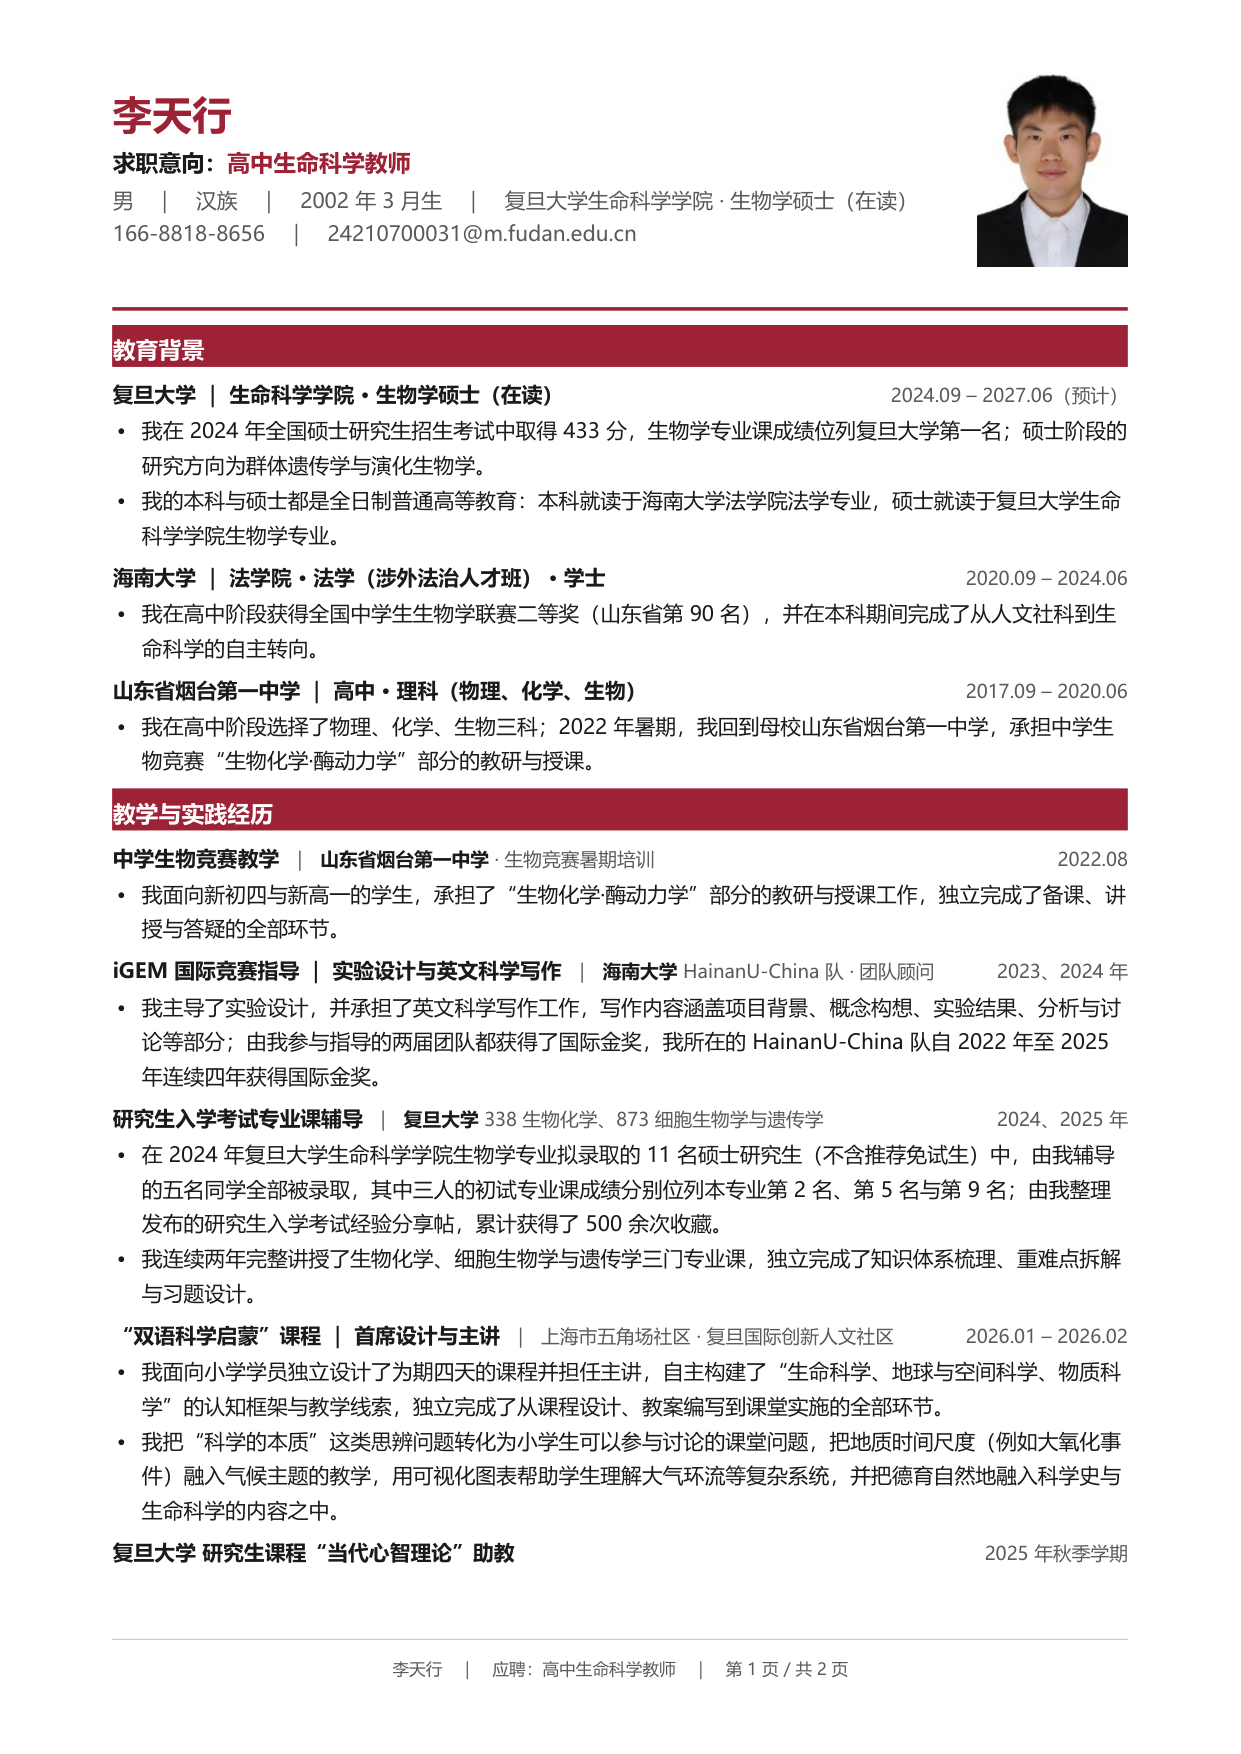
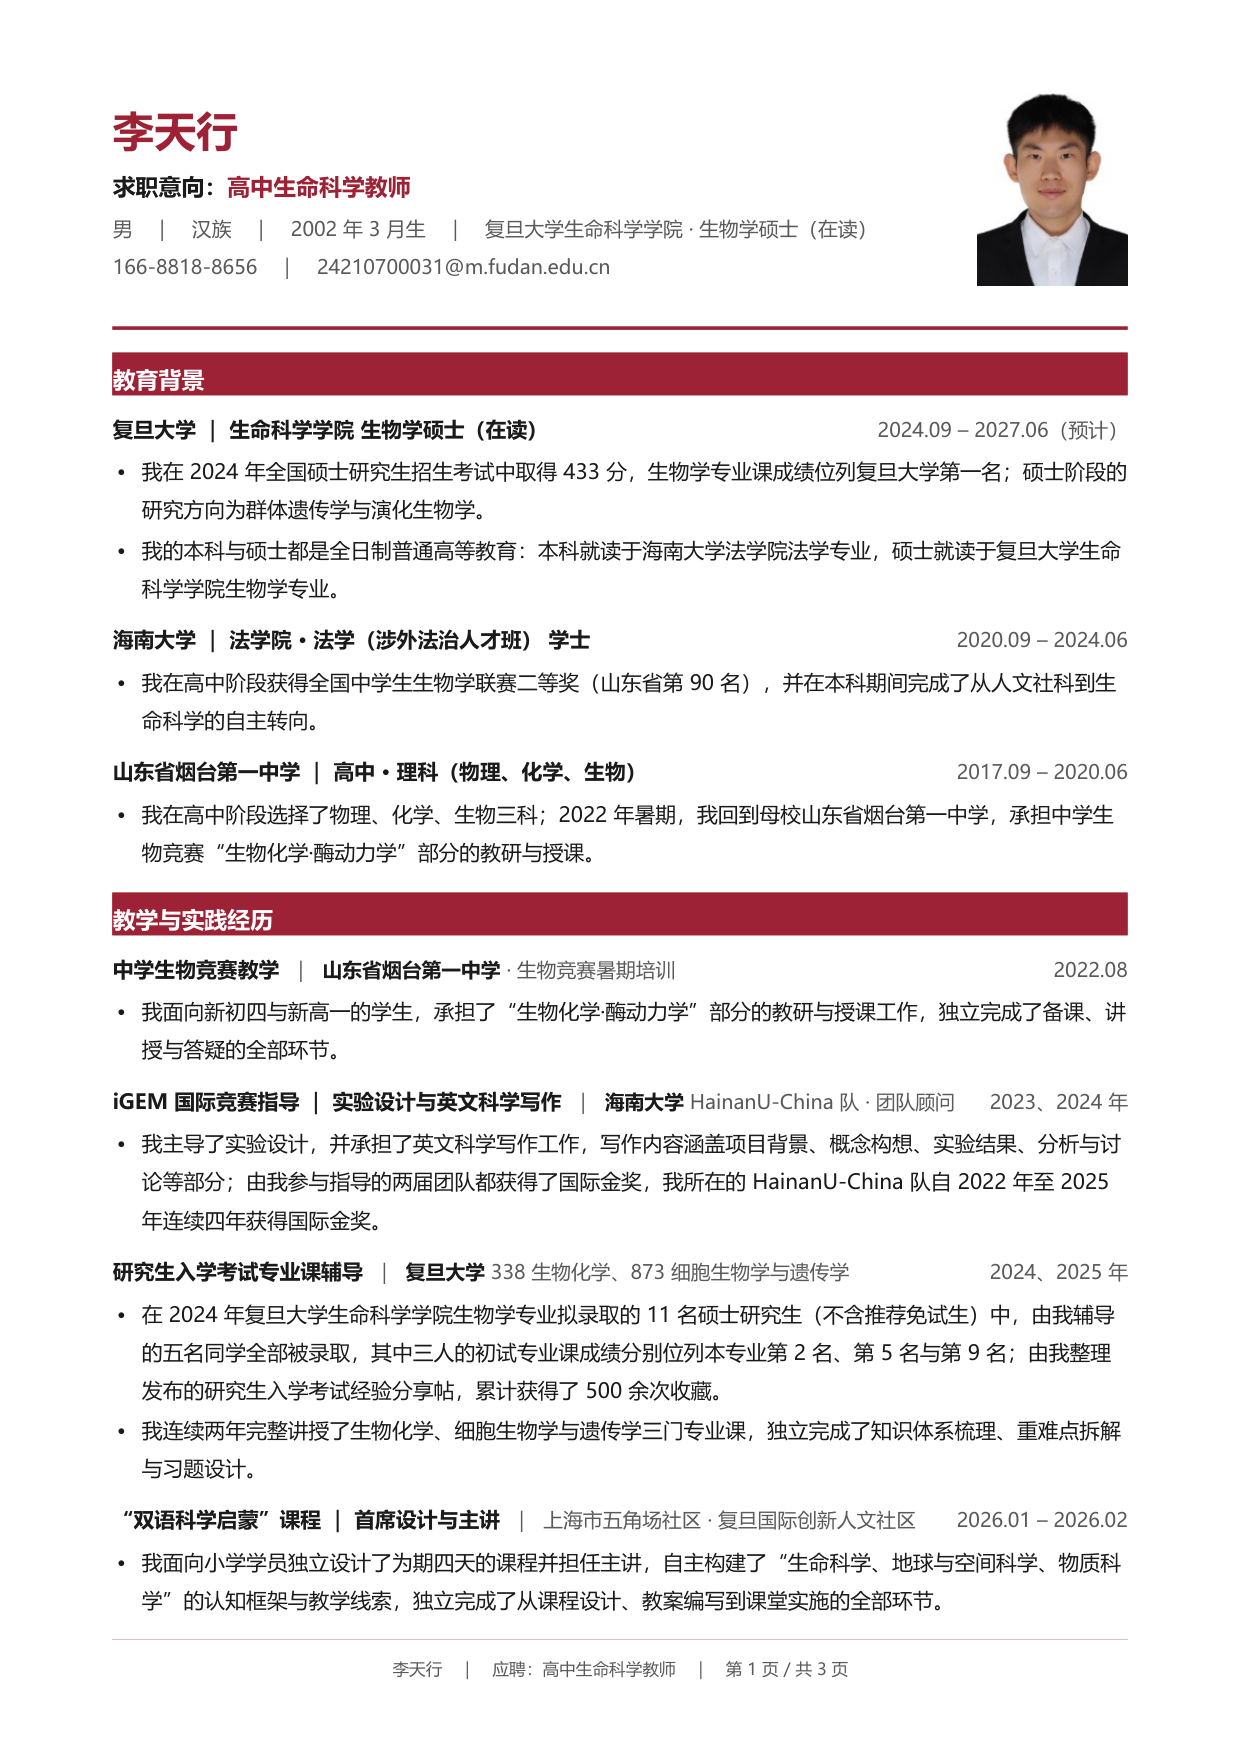
fix: 排版逐项移植定稿脚本参数，红条铺满整栏且条高固定
原做法是从 PDF 反推数值，方向错了。改为读产出定稿的生成脚本 build_resumes.js，
把参数整段移植进 template.yaml：正文 10 pt、分区标题 11 pt、姓名 20 pt、
辅助 9.5 pt，页边距 820/1080 twips，条目间距 130/40、要点 20/20、分区 220/96。

两处必须偏离脚本原值，原因写在模板注释里：
- 分区条左右缩进 40 改为 0。定稿 PDF 由 Word 导出，Word 按整栏铺底色、
  不理左右缩进；LibreOffice 严格按缩进收窄，会得到窄 3 pt 的条。
- 条高改用最小行高 20.5 pt。LibreOffice 对单行段落按字号给最小行高，
  行距倍数调大也不变，无法靠 line 字段撑高。

其他：渲染器改为全部间距从模板读取（此前部分写死在代码里，与模板无代码的
约定不符）；lineMode 支持 auto 与 exact 两种行距解释；教育背景的学位连接符
按定稿改为空格。

四个变体实测 3、3、3、2 页，页数预算随之调整；红条 487.3x20.5 pt，
基准为 486.2x20.4 pt。

Changed region(s): [[0.0919, 0.0308, 0.9186, 0.9236]]

diff --git a/src/render-docx.js b/src/render-docx.js
@@ -31,6 +31,24 @@ function exactLine(pt) {
   return { line: Math.round(pt * 20), lineRule: LineRuleType.EXACT };
 }
 
+/**
+ * 按模板的 lineMode 组装段落间距。
+ * auto 模式直接用 OOXML 的行距倍数（240 等于单倍），与定稿脚本一致；
+ * exact 模式改用固定行高，页数不随字体度量漂移。
+ */
+function makeSpacing(template, before, after, lineMult, exactPt) {
+  const out = {};
+  if (before !== undefined) out.before = before;
+  if (after !== undefined) out.after = after;
+  if (template.lineMode === 'exact') {
+    Object.assign(out, exactLine(exactPt));
+  } else if (lineMult !== undefined) {
+    out.line = lineMult;
+    out.lineRule = 'auto';
+  }
+  return out;
+}
+
 function makeRuns(template) {
   const FONT = {
     ascii: template.font.family,
@@ -41,6 +59,7 @@ function makeRuns(template) {
   const C = template.colors;
   const T = template.typography;
   const LH = template.lineHeightPt || {};
+  const SP = template.spacing || {};
   const records = [];
 
   const run = (text, o = {}) => {
@@ -55,14 +74,19 @@ function makeRuns(template) {
   };
 
   const sectionBar = (title) => {
+    const cfg = SP.section || {};
     records.push(String(title));
+    // 条高用「最小行高」给绝对值，色块高度才可预期
+    const barHeight = cfg.heightPt || 20.5;
     return new Paragraph({
       // keepNext：标题条必须紧跟其下第一条内容，避免标题孤零零留在页底
       keepNext: true,
       shading: { type: ShadingType.CLEAR, fill: C.primary },
-      // 左右不留缩进，底色才能铺满整栏。缩进会让底色跟着收窄，字就露在红条外面
-      indent: { left: 0, right: 0 },
-      spacing: Object.assign({ before: 128, after: 54 }, exactLine(LH.section || 20)),
+      indent: { left: cfg.indentLeft === undefined ? 0 : cfg.indentLeft, right: cfg.indentRight === undefined ? 0 : cfg.indentRight },
+      spacing: Object.assign(
+        { before: cfg.before === undefined ? 220 : cfg.before, after: cfg.after === undefined ? 96 : cfg.after },
+        { line: Math.round(barHeight * 20), lineRule: LineRuleType.AT_LEAST }
+      ),
       children: [new TextRun({ text: title, font: FONT, size: halfPt(T.sectionTitle), bold: true, color: 'FFFFFF' })],
     });
   };
@@ -87,9 +111,10 @@ function makeRuns(template) {
     return out;
   };
 
-  const entryLine = (title, right, org) =>
-    new Paragraph({
-      spacing: Object.assign({ before: 74, after: 20 }, exactLine(LH.body || 17.5)),
+  const entryLine = (title, right, org) => {
+    const cfg = SP.entry || {};
+    return new Paragraph({
+      spacing: makeSpacing(template, cfg.before, cfg.after, cfg.line, LH.body || 16.5),
       tabStops: [{ type: TabStopType.RIGHT, position: template.geometry.tabStopTwip }],
       children: [
         ...segmentRuns(title, { bold: true }),
@@ -97,19 +122,24 @@ function makeRuns(template) {
         ...(right ? [run('\t' + right, { color: C.muted, size: T.small })] : []),
       ],
     });
+  };
 
-  const bullet = (children) =>
-    new Paragraph({
+  const bullet = (children) => {
+    const cfg = SP.bullet || {};
+    return new Paragraph({
       numbering: { reference: 'dot', level: 0 },
-      spacing: Object.assign({ before: 10, after: 10 }, exactLine(LH.body || 17.5)),
+      spacing: makeSpacing(template, cfg.before, cfg.after, cfg.line, LH.body || 16.5),
       children: Array.isArray(children) ? children : segmentRuns(children),
     });
+  };
 
-  const para = (children) =>
-    new Paragraph({
-      spacing: Object.assign({ before: 18, after: 18 }, exactLine(LH.body || 17.5)),
+  const para = (children) => {
+    const cfg = SP.para || {};
+    return new Paragraph({
+      spacing: makeSpacing(template, cfg.before, cfg.after, cfg.line, LH.body || 16.5),
       children: Array.isArray(children) ? children : segmentRuns(children),
     });
+  };
 
   const inlineRow = (label, text) => {
     const kids = [];
@@ -159,7 +189,7 @@ function renderItem(R, sectionId, it, cfg, template, inlineLabels) {
   switch (sectionId) {
     case 'education': {
       const right = dateRange(it, sep);
-      const sub = [it.area, it.studyType].filter(Boolean).join(' · ');
+      const sub = [it.area, it.studyType].filter(Boolean).join(template.studyTypeSeparator === undefined ? ' ' : template.studyTypeSeparator);
       out.push(R.entryLine(it.institution + (sub ? ' ｜ ' + sub : ''), right));
       for (const h of takeBullets(it, cfg)) out.push(R.bullet(h));
       break;
@@ -227,25 +257,26 @@ function buildHeader(R, { data, variant, template, dataDir }) {
   if (b.url) contactParts.push(b.url);
 
   const LH = template.lineHeightPt || {};
+  const HS = (template.spacing && template.spacing.header) || {};
   const left = [
     new Paragraph({
-      spacing: Object.assign({ after: 30 }, exactLine(LH.name || 26)),
+      spacing: makeSpacing(template, 0, HS.nameAfter === undefined ? 40 : HS.nameAfter, HS.nameLine, LH.name || 26),
       children: [R.run(b.name || '', { bold: true, size: T.name, color: C.primary })],
     }),
     new Paragraph({
-      spacing: Object.assign({ after: 42 }, exactLine(LH.label || 16.5)),
+      spacing: makeSpacing(template, 0, HS.labelAfter === undefined ? 60 : HS.labelAfter, HS.labelLine, LH.label || 17),
       children: [
         R.run('求职意向：', { bold: true, size: T.label }),
         R.run(variant.label || b.label || '', { bold: true, size: T.label, color: C.primary }),
       ],
     }),
     new Paragraph({
-      spacing: Object.assign({ after: 20 }, exactLine(LH.small || 15)),
-      children: [R.run(metaParts.join('　｜　'), { size: T.body, color: C.muted })],
+      spacing: makeSpacing(template, 0, HS.metaAfter === undefined ? 30 : HS.metaAfter, HS.metaLine, LH.small || 15),
+      children: [R.run(metaParts.join('　｜　'), { size: T.small, color: C.muted })],
     }),
     new Paragraph({
-      spacing: Object.assign({ after: 0 }, exactLine(LH.small || 15)),
-      children: [R.run(contactParts.join('　｜　'), { size: T.body, color: C.muted })],
+      spacing: makeSpacing(template, 0, 0, HS.metaLine, LH.small || 15),
+      children: [R.run(contactParts.join('　｜　'), { size: T.small, color: C.muted })],
     }),
   ];
 
@@ -345,9 +376,10 @@ async function render({ data, variant, template, dataDir, outFile }) {
   const body = [buildHeader(R, { data, variant, template, dataDir })];
 
   // 页首细线
+  const ruleCfg = (template.spacing && template.spacing.rule) || {};
   body.push(
     new Paragraph({
-      spacing: { before: 36, after: 140 },
+      spacing: { before: ruleCfg.before === undefined ? 40 : ruleCfg.before, after: ruleCfg.after === undefined ? 160 : ruleCfg.after },
       border: { bottom: { style: BorderStyle.SINGLE, size: 12, color: template.colors.primary, space: 1 } },
       children: [R.run('', { size: 4 })],
     })

diff --git a/README.md b/README.md
@@ -246,27 +246,27 @@ forbidEntities:
 
 ## 排版规范
 
-字号、行距、加粗三件事定死在 `template.yaml`，改动前先读这三条理由。目标是**同类信息用同一种处理**，读者不必猜哪里重要。
+这一节的数值不是凭感觉定的，也不是从 PDF 反推的，而是**逐项移植自产出定稿的那份生成脚本**（复旦二附校版，正文 10 pt、条高 20 pt 那一版）。改动前请先读三条理由。
 
 ### 一、字号只分三层
 
 | 层级 | 元素 | 字号 | 字重 |
 |---|---|---|---|
-| 焦点 | 姓名 | 19 pt | 加粗 |
+| 焦点 | 姓名 | 20 pt | 加粗 |
 | 引导 | 求职意向、分区标题 | 11 pt | 加粗 |
 | 信息 | 条目主行、正文要点 | 10 pt | 主行加粗，正文常规 |
-| 辅助 | 日期、单位、联系方式 | 9 pt | 常规 |
+| 辅助 | 日期、单位、联系方式 | 9.5 pt | 常规 |
 | 页脚 | 页码 | 8 pt | 常规 |
 
-不再增加层级。层级越多，读者越难判断先看哪里。字号差小于 1 pt 的层级等于没有层级，所以引导层与信息层直接差 1 pt 并靠字重与颜色区分。
+不再增加层级。层级越多，读者越难判断先看哪里。字号差小于 1 pt 的层级等于没有层级，所以引导层与信息层直接差 1 pt，再靠字重与颜色区分。
 
-### 二、行距按中文字面高度定
+### 二、行距与条高
 
-中文正文的舒适区是字号的 1.5 到 1.8 倍。10 pt 正文取 **16.5 pt，即 1.65 倍**：低于 1.5 会挤，高于 1.8 会散，一页装不下几条内容。
+页边距上下 41 pt、左右 54 pt，比常见的 32 pt 宽，首屏不顶到纸边。
 
-分区标题条取 **20 pt**，让 11 pt 的白字上下各留约 4.5 pt。这个数值不能省：底色条比文字高，白字才被包住；条高等于行高时，文字会顶到边。
+分区标题条的条高直接给绝对值 **20.5 pt**：11 pt 白字上下各留约 4.7 pt，底色才包得住文字。条高不能用行距倍数调，LibreOffice 对单行段落按字号给最小行高，倍数调大了也不变，所以用「最小行高」写死。
 
-两条都是显式值。docx 的 auto 行距跟着字体度量走，换字体就变页数，所以必须钉死。
+正文行距默认按 OOXML 倍数走（`lineMode: auto`），与定稿脚本一致；切成 `exact` 则改用固定行高，页数不随字体度量漂移，但视觉会比基准紧一些。
 
 ### 三、加粗只给三类内容
 
